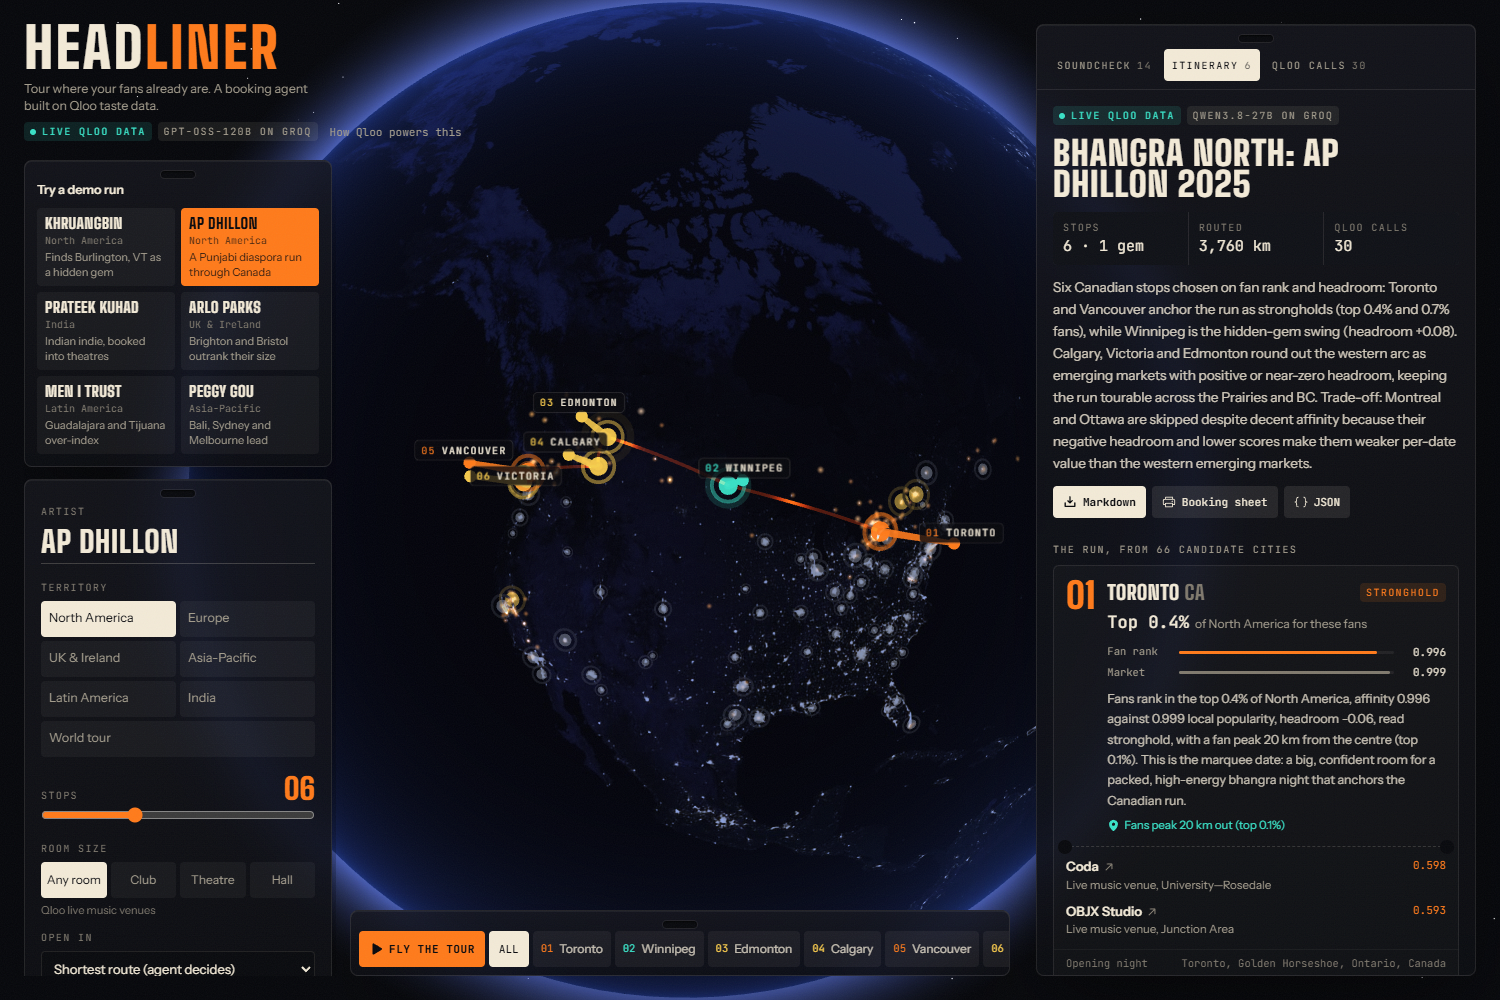
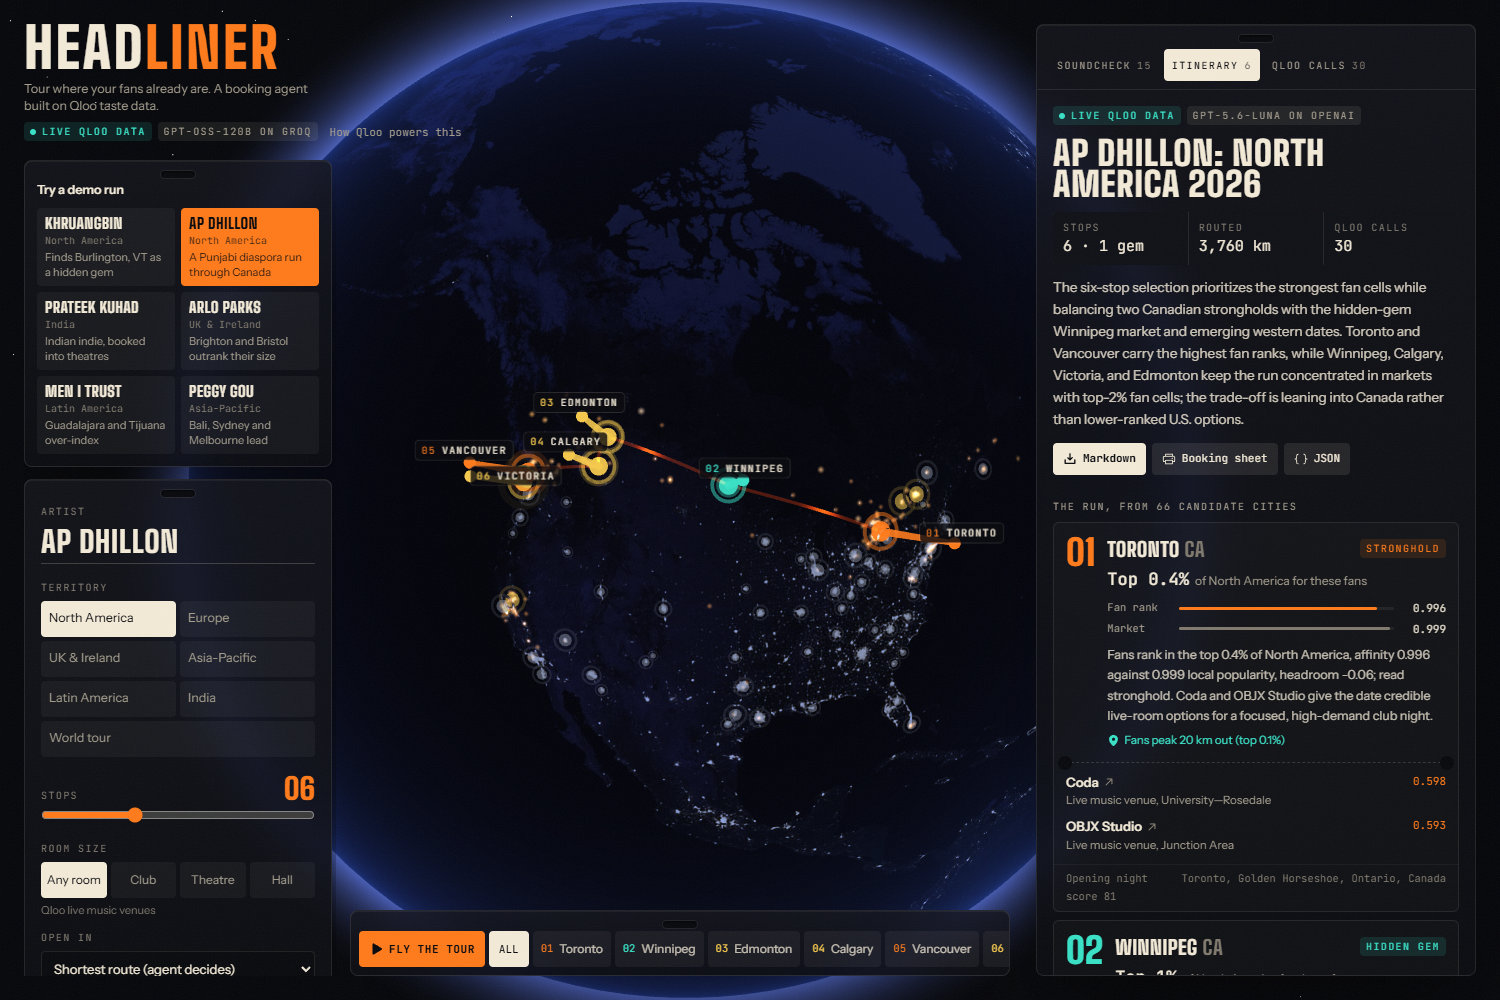
llm: OpenAI gpt-5.6-luna as a metered fallback behind Groq with a daily run budget, call and token caps; current year in headline rule; LLM-planned shots 05 and 06

diff --git a/src/lib/agent/orchestrator.ts b/src/lib/agent/orchestrator.ts
@@ -11,7 +11,8 @@ import { PlanDraftSchema, type PlanDraft, type PlanRequest, type TourPlan } from
 import { deterministicDraft, f3, gatherEvidence, pickCities } from "./deterministic";
 import type { AgentEvent } from "./events";
 import { EvidenceLedger } from "./ledger";
-import { getLlm, modelOptions, type LlmConfig } from "./llm";
+import { claimMeteredRun } from "./budget";
+import { estimateCostUsd, getLlm, modelOptions, type LlmConfig, type LlmRoute } from "./llm";
 import { executeTool, stepId } from "./runner";
 import { TOOL_BY_NAME, type ToolContext } from "./tools";
 
@@ -20,6 +21,9 @@ type ToolSpec = OpenAI.Chat.Completions.ChatCompletionTool;
 
 const MAX_TURNS = 5;
 const MAX_SUBMIT_FAILURES = 3;
+/** Spend guards for paid routes: completions per run and output tokens per completion. */
+const METERED_MAX_CALLS = 4;
+const METERED_MAX_OUTPUT_TOKENS = 2000;
 /** Whole LLM phase must leave room for the deterministic fallback inside the route's maxDuration. */
 const LLM_BUDGET_MS = 80_000;
 /** Spare cities (beyond the requested stop count) that get venue lookups up front. */
@@ -150,7 +154,7 @@ function systemPrompt(req: PlanRequest) {
     "- Each stop reason: two sentences, like a booking agent's note. First the evidence, citing that city's own numbers exactly as listed (e.g. 'Fans rank in the top 0.8% of North America, affinity 0.992 against 0.976 local popularity, headroom +0.14.'). Then what it means for the date (why this room, what kind of night). Use the city's read label as given; never call a city a hidden gem or stronghold unless its read says so. You may mention a metro-peak note when listed. Pick 1-2 venues per stop from that city's list, preferring real rooms over restaurants or pubs.",
     "- Do not make geographic or historical claims that the evidence does not show.",
     "- Bill: 1 co-headliner and 1-2 support acts from SIMILAR ARTISTS. Brands: 2-3 from BRANDS with a concrete pitch. audienceNotes: 2 notes for the poster and merch designer built from the taste tags only; do not mention age or gender (the server adds those facts).",
-    `- headline: a poster-style tour title (max 8 words) that fits the ${region} run; do not claim a wider geography.`,
+    `- headline: a poster-style tour title (max 8 words) that fits the ${region} run; do not claim a wider geography. If it names a year, use ${new Date().getUTCFullYear()} or later.`,
     "- Affinities are aggregate audience signals, not ticket forecasts or facts about individuals. Write like a seasoned booking agent: concrete, short, no hype.",
     "- The server computes the travel order, so list stops in any order and do not narrate a route in the summary. If the user's constraints name a closing city, set closeCityId; the server will end there.",
     "- summary: 2-3 sentences on why these cities (selection logic and trade-offs), consistent with the numbers.",
@@ -229,25 +233,67 @@ class ToolCallRejected extends Error {}
  * - 429: switch to the next model (separate per-model limits), or wait if the wait is short.
  * - 400 tool_use_failed (provider-side schema check of tool args): surfaced as ToolCallRejected for a corrective retry.
  * - 5xx / timeouts: next model.
+ * - every model on the free route unavailable: continue on the paid backup if today's budget has a slot.
  */
-async function complete(llm: LlmConfig, messages: Msg[], deadline: number, forceSubmit = false): Promise<Completion> {
+async function complete(state: RunState, messages: Msg[], deadline: number, forceSubmit = false): Promise<Completion> {
+  try {
+    return await completeOn(state, messages, deadline, forceSubmit);
+  } catch (err) {
+    const backup = state.llm.backup;
+    if (err instanceof ToolCallRejected || state.route.metered || !backup) throw err;
+    const reason = (err instanceof Error ? err.message : String(err)).replace(/org_\w+/g, "org").slice(0, 160);
+    await switchToMeteredRoute(state, backup, `${state.route.provider} unavailable (${reason})`);
+    return completeOn(state, messages, deadline, forceSubmit);
+  }
+}
+
+/** Which route a run is on, and what it has spent on metered routes. */
+interface RunState {
+  llm: LlmConfig;
+  route: LlmRoute;
+  meteredCalls: number;
+  usage: { input: number; cached: number; output: number };
+  emit: ToolContext["emit"];
+}
+
+async function switchToMeteredRoute(state: RunState, route: LlmRoute, why: string) {
+  const slot = await claimMeteredRun();
+  const name = `${route.provider === "openai" ? "OpenAI" : route.provider} ${route.model}`;
+  if (!slot.ok) {
+    state.emit({ type: "step", id: stepId(), kind: "think", title: `Daily ${name} budget used`, status: "error", detail: `${why}; ${slot.used}/${slot.limit} paid runs today` });
+    throw new Error(`${why}; daily ${name} budget used (${slot.used}/${slot.limit})`);
+  }
+  state.route = route;
+  state.emit({ type: "step", id: stepId(), kind: "think", title: `Continuing on ${name}`, status: "done", detail: `${why} · paid run ${slot.used}/${slot.limit} today` });
+}
+
+async function completeOn(state: RunState, messages: Msg[], deadline: number, forceSubmit: boolean): Promise<Completion> {
+  const route = state.route;
   let lastErr: unknown;
   for (let attempt = 0; attempt < 8; attempt++) {
-    const model = await pickModel(llm, deadline);
+    const model = await pickModel(route, deadline);
+    if (route.metered && state.meteredCalls >= METERED_MAX_CALLS) throw new Error(`Paid LLM call cap reached (${METERED_MAX_CALLS} per run)`);
+    if (route.metered) state.meteredCalls++;
     try {
-      const { data: res, response } = await llm.client.chat.completions
+      const { data: res, response } = await route.client.chat.completions
         .create({
         model,
         messages,
         tools: TOOL_SPECS,
         tool_choice: forceSubmit ? { type: "function", function: { name: "submit_tour_plan" } } : "required",
         parallel_tool_calls: !forceSubmit,
-        max_completion_tokens: 3000,
-        temperature: 0.4,
+        max_completion_tokens: route.metered ? METERED_MAX_OUTPUT_TOKENS : 3000,
+        // GPT-5 before 5.6 only accepts the default temperature.
+        ...(/^gpt-5(?!\.[6-9])/.test(model) ? {} : { temperature: 0.4 }),
         ...modelOptions(model),
       } as OpenAI.Chat.Completions.ChatCompletionCreateParamsNonStreaming)
         .withResponse();
       paceFromHeaders(model, response.headers);
+      if (route.metered && res.usage) {
+        state.usage.input += res.usage.prompt_tokens;
+        state.usage.cached += res.usage.prompt_tokens_details?.cached_tokens ?? 0;
+        state.usage.output += res.usage.completion_tokens;
+      }
       const message = res.choices[0]?.message;
       if (!message) throw new Error("LLM returned no message");
       return { message, model, usage: res.usage ?? undefined };
@@ -256,7 +302,10 @@ async function complete(llm: LlmConfig, messages: Msg[], deadline: number, force
       if (err instanceof OpenAI.APIError) {
         const code = (err.error as { code?: string } | undefined)?.code ?? err.code;
         if (err.status === 400 && code === "tool_use_failed") throw new ToolCallRejected(err.message.slice(0, 400));
+        // Out of credit is not a wait-and-retry 429.
+        if (code === "insufficient_quota") throw err;
         if (err.status === 429) {
+          if (route.metered) state.meteredCalls--;
           const wait = retryAfterMs(err);
           console.warn(`[llm] 429 from ${model}, cooling ${Math.round(wait / 1000)}s: ${err.message.replace(/org_\w+/g, "org").slice(0, 220)}`);
           coolDown(model, wait);
@@ -298,7 +347,7 @@ function paceFromHeaders(model: string, h: Headers) {
 }
 
 /** Best available model: the primary unless it is cooling down; waits for the soonest if all are. */
-async function pickModel(llm: LlmConfig, deadline: number): Promise<string> {
+async function pickModel(llm: LlmRoute, deadline: number): Promise<string> {
   const now = Date.now();
   const primaryWait = (cooldowns.get(llm.models[0]) ?? 0) - now;
   if (primaryWait > 0 && primaryWait < PRIMARY_WAIT_MS && now + primaryWait < deadline) {
@@ -425,7 +474,21 @@ function draftProblems(d: PlanDraft, ctx: ToolContext, aliases: AliasBook): stri
 }
 
 async function runLlm(llm: LlmConfig, ctx: ToolContext): Promise<TourPlan> {
+  const state: RunState = { llm, route: llm, meteredCalls: 0, usage: { input: 0, cached: 0, output: 0 }, emit: ctx.emit };
+  try {
+    return await runTurns(state, ctx);
+  } finally {
+    const { input, cached, output } = state.usage;
+    if (input || output) {
+      const usd = estimateCostUsd(state.route.model, input, cached, output);
+      console.log(`[llm] metered ${state.route.model}: ${state.meteredCalls} calls, ${input} in (${cached} cached) + ${output} out${usd === null ? "" : `, ~$${usd.toFixed(4)}`} · ${ctx.request.artist}`);
+    }
+  }
+}
+
+async function runTurns(state: RunState, ctx: ToolContext): Promise<TourPlan> {
   const deadline = Date.now() + LLM_BUDGET_MS;
+  if (state.route.metered) await switchToMeteredRoute(state, state.route, "Paid LLM is the only planner configured");
   const shortlist = await research(ctx);
   const aliases = new AliasBook();
   const messages: Msg[] = [
@@ -438,7 +501,7 @@ async function runLlm(llm: LlmConfig, ctx: ToolContext): Promise<TourPlan> {
   let forced = false;
   for (let turn = 0; turn < MAX_TURNS; turn++) {
     // The last two turns may only submit: lookups are closed so the run always ends in a plan.
-    const force = turn >= MAX_TURNS - 2;
+    const force = turn >= MAX_TURNS - 2 || (state.route.metered && state.meteredCalls >= METERED_MAX_CALLS - 2);
     if (force && !forced) {
       forced = true;
       messages.push({ role: "user", content: "Lookups are closed. Call submit_tour_plan now with the evidence you have, following every rule." });
@@ -449,7 +512,7 @@ async function runLlm(llm: LlmConfig, ctx: ToolContext): Promise<TourPlan> {
     const t0 = performance.now();
     let res: Completion;
     try {
-      res = await complete(llm, messages, deadline, force);
+      res = await complete(state, messages, deadline, force);
     } catch (err) {
       if (!(err instanceof ToolCallRejected)) {
         ctx.emit({ type: "step", id: thinkId, kind: "think", title, status: "error", detail: (err as Error).message.slice(0, 200) });
@@ -513,7 +576,7 @@ async function runLlm(llm: LlmConfig, ctx: ToolContext): Promise<TourPlan> {
       continue;
     }
     if (!parsed?.success) throw new Error("unreachable");
-    return finish(parsed.data, ctx, aliases, `${llm.provider}:${res.model}`, vid);
+    return finish(parsed.data, ctx, aliases, `${state.route.provider}:${res.model}`, vid);
   }
   throw new Error("Agent ran out of turns before submitting a valid plan");
 }

diff --git a/src/lib/agent/llm.ts b/src/lib/agent/llm.ts
@@ -1,18 +1,26 @@
 import "server-only";
 import OpenAI from "openai";
 
-export interface LlmConfig {
+export interface LlmRoute {
   provider: "groq" | "openai" | "custom";
   /** Primary model first, then fallbacks tried on rate limits / provider errors. */
   models: string[];
   model: string;
   client: OpenAI;
+  /** Paid per token: every run on this route needs a slot from the daily budget and runs under tighter caps. */
+  metered: boolean;
+}
+
+export interface LlmConfig extends LlmRoute {
+  /** Paid route used only when the primary is rate-limited or unavailable. */
+  backup?: LlmRoute;
 }
 
 const DEFAULTS = {
   // Groq rate limits are per model, so falling back to a sibling model also sidesteps a 429.
   groq: { baseURL: "https://api.groq.com/openai/v1", models: ["openai/gpt-oss-120b", "openai/gpt-oss-20b", "qwen/qwen3.8-27b"] },
-  openai: { baseURL: undefined as string | undefined, models: ["gpt-4.1-mini"] },
+  // Cheapest current OpenAI model that handles the planner's tool calls well ($0.10 in / $0.60 out per 1M).
+  openai: { baseURL: undefined as string | undefined, models: ["gpt-5.6-luna"] },
 };
 
 const list = (s: string | undefined) =>
@@ -21,14 +29,24 @@ const list = (s: string | undefined) =>
     .map((x) => x.trim())
     .filter(Boolean);
 
+function openaiRoute(env: NodeJS.ProcessEnv, model?: string): LlmRoute | null {
+  const apiKey = env.OPENAI_API_KEY?.trim();
+  if (!apiKey) return null;
+  const primary = model || env.OPENAI_MODEL?.trim() || DEFAULTS.openai.models[0];
+  return { provider: "openai", model: primary, models: [primary], client: new OpenAI({ apiKey, maxRetries: 0, timeout: 40_000 }), metered: true };
+}
+
 /**
  * OpenAI-compatible client from env. Precedence:
  *   LLM_PROVIDER (groq|openai|custom) + LLM_API_KEY / LLM_BASE_URL / LLM_MODEL / LLM_FALLBACK_MODELS, else
  *   GROQ_API_KEY -> Groq, else OPENAI_API_KEY -> OpenAI, else null (deterministic agent).
+ * With Groq primary and OPENAI_API_KEY set, OpenAI (OPENAI_MODEL, default gpt-5.6-luna) is a metered backup;
+ * OPENAI_FALLBACK=0 turns the backup off.
  */
 export function getLlm(env: NodeJS.ProcessEnv = process.env): LlmConfig | null {
   const explicit = env.LLM_PROVIDER?.trim().toLowerCase();
-  const provider =
+  if (explicit === "none") return null;
+  let provider: LlmRoute["provider"] | null =
     explicit === "groq" || explicit === "openai" || explicit === "custom"
       ? explicit
       : env.GROQ_API_KEY
@@ -36,7 +54,14 @@ export function getLlm(env: NodeJS.ProcessEnv = process.env): LlmConfig | null {
         : env.OPENAI_API_KEY
           ? "openai"
           : null;
-  if (!provider || explicit === "none") return null;
+  // Groq selected but its key is gone: Groq is disabled and OpenAI (metered) is the only LLM.
+  if (provider === "groq" && !env.GROQ_API_KEY?.trim() && !env.LLM_API_KEY?.trim()) provider = env.OPENAI_API_KEY?.trim() ? "openai" : null;
+  if (!provider) return null;
+
+  if (provider === "openai" && !env.LLM_API_KEY?.trim() && !env.LLM_BASE_URL?.trim()) {
+    const model = env.LLM_MODEL?.trim();
+    return openaiRoute(env, model && !model.includes("/") ? model : undefined);
+  }
 
   const apiKey =
     env.LLM_API_KEY?.trim() || (provider === "groq" ? env.GROQ_API_KEY?.trim() : provider === "openai" ? env.OPENAI_API_KEY?.trim() : undefined);
@@ -48,12 +73,37 @@ export function getLlm(env: NodeJS.ProcessEnv = process.env): LlmConfig | null {
   if (!primary) return null;
   const fallbacks = env.LLM_FALLBACK_MODELS !== undefined ? list(env.LLM_FALLBACK_MODELS) : defaults.models;
   const models = [primary, ...fallbacks.filter((m) => m !== primary)];
-  return { provider, model: primary, models, client: new OpenAI({ apiKey, baseURL, maxRetries: 0, timeout: 40_000 }) };
+  const backup = provider === "groq" && env.OPENAI_FALLBACK !== "0" ? (openaiRoute(env) ?? undefined) : undefined;
+  return {
+    provider,
+    model: primary,
+    models,
+    client: new OpenAI({ apiKey, baseURL, maxRetries: 0, timeout: 40_000 }),
+    metered: provider === "openai",
+    ...(backup ? { backup } : {}),
+  };
 }
 
 /** Provider-specific request knobs. Reasoning models spend TPM on hidden reasoning, so keep it low. */
 export function modelOptions(model: string): Record<string, unknown> {
   if (model.includes("gpt-oss")) return { reasoning_effort: "low" };
   if (model.startsWith("qwen/")) return { reasoning_effort: "none" };
+  // Chat Completions only allows function tools on GPT-5.6+ with reasoning off.
+  if (/^gpt-(5\.[6-9]|[6-9])/.test(model)) return { reasoning_effort: "none" };
+  if (model.startsWith("gpt-5")) return { reasoning_effort: "minimal" };
   return {};
+}
+
+/** USD per 1M tokens (input, cached input, output) for cost logging on metered routes. */
+const PRICES: Record<string, [number, number, number]> = {
+  "gpt-5.6-luna": [0.1, 0.01, 0.6],
+  "gpt-5-nano": [0.05, 0.005, 0.4],
+  "gpt-5-mini": [0.25, 0.025, 2],
+  "gpt-4.1-nano": [0.1, 0.025, 0.4],
+  "gpt-4.1-mini": [0.4, 0.1, 1.6],
+};
+
+export function estimateCostUsd(model: string, input: number, cached: number, output: number): number | null {
+  const p = PRICES[model];
+  return p ? ((input - cached) * p[0] + cached * p[1] + output * p[2]) / 1e6 : null;
 }

diff --git a/src/lib/agent/budget.ts b/src/lib/agent/budget.ts
@@ -1,0 +1,59 @@
+import "server-only";
+import { defaultStore } from "@/lib/qloo/store";
+
+/** Paid-LLM runs allowed per UTC day across every visitor (OPENAI_DAILY_RUNS overrides). */
+export const METERED_RUNS_PER_DAY = Number(process.env.OPENAI_DAILY_RUNS ?? 40);
+
+const day = () => new Date().toISOString().slice(0, 10);
+const memory = new Map<string, number>();
+const TTL_S = 2 * 24 * 3600;
+
+/** Upstash Redis REST (atomic INCR) when configured; the counter that survives across instances. */
+async function upstashIncr(key: string): Promise<number | null> {
+  const url = (process.env.UPSTASH_REDIS_REST_URL ?? process.env.KV_REST_API_URL)?.trim();
+  const token = (process.env.UPSTASH_REDIS_REST_TOKEN ?? process.env.KV_REST_API_TOKEN)?.trim();
+  if (!url || !token) return null;
+  try {
+    const res = await fetch(`${url.replace(/\/$/, "")}/pipeline`, {
+      method: "POST",
+      headers: { authorization: `Bearer ${token}`, "content-type": "application/json" },
+      body: JSON.stringify([
+        ["INCR", key],
+        ["EXPIRE", key, String(TTL_S)],
+      ]),
+      cache: "no-store",
+    });
+    if (!res.ok) return null;
+    const [incr] = (await res.json()) as { result?: number }[];
+    return typeof incr?.result === "number" ? incr.result : null;
+  } catch {
+    return null;
+  }
+}
+
+export interface BudgetSlot {
+  ok: boolean;
+  used: number;
+  limit: number;
+  store: "upstash" | "runtime-cache" | "disk" | "memory";
+}
+
+/**
+ * Claims one paid-LLM run for today. Upstash is exact; otherwise the Vercel Runtime Cache (shared, not atomic)
+ * and this instance's own count are combined, so concurrent instances may overshoot by a few runs at most.
+ */
+export async function claimMeteredRun(limit = METERED_RUNS_PER_DAY): Promise<BudgetSlot> {
+  const key = `llm-budget:metered:${day()}`;
+  if (limit <= 0) return { ok: false, used: 0, limit, store: "memory" };
+
+  const exact = await upstashIncr(key);
+  if (exact !== null) return { ok: exact <= limit, used: Math.min(exact, limit), limit, store: "upstash" };
+
+  const store = defaultStore();
+  const shared = Number((await store?.get(key)) ?? 0) || 0;
+  const used = Math.max(shared, memory.get(key) ?? 0);
+  if (used >= limit) return { ok: false, used, limit, store: store?.kind ?? "memory" };
+  memory.set(key, used + 1);
+  await store?.set(key, used + 1, TTL_S);
+  return { ok: true, used: used + 1, limit, store: store?.kind ?? "memory" };
+}

diff --git a/test/llm-config.test.ts b/test/llm-config.test.ts
@@ -33,6 +33,21 @@ describe("getLlm", () => {
     expect(c.client.baseURL).toBe("https://llm.example/v1");
   });
 
+  it("adds OpenAI as a metered backup behind Groq", () => {
+    const c = getLlm(env({ GROQ_API_KEY: "g", OPENAI_API_KEY: "o" }))!;
+    expect(c.metered).toBe(false);
+    expect(c.backup).toMatchObject({ provider: "openai", model: "gpt-5.6-luna", metered: true });
+    expect(getLlm(env({ GROQ_API_KEY: "g", OPENAI_API_KEY: "o", OPENAI_FALLBACK: "0" }))!.backup).toBeUndefined();
+    expect(getLlm(env({ GROQ_API_KEY: "g", OPENAI_API_KEY: "o", OPENAI_MODEL: "gpt-5-nano" }))!.backup!.model).toBe("gpt-5-nano");
+  });
+
+  it("falls back to metered OpenAI when Groq is selected but its key is gone", () => {
+    const c = getLlm(env({ LLM_PROVIDER: "groq", LLM_MODEL: "openai/gpt-oss-120b", OPENAI_API_KEY: "o" }))!;
+    expect(c).toMatchObject({ provider: "openai", model: "gpt-5.6-luna", metered: true });
+    expect(c.backup).toBeUndefined();
+    expect(getLlm(env({ LLM_PROVIDER: "groq" }))).toBeNull();
+  });
+
   it("can be disabled explicitly", () => {
     expect(getLlm(env({ LLM_PROVIDER: "none", GROQ_API_KEY: "g" }))).toBeNull();
   });

diff --git a/test/budget.test.ts b/test/budget.test.ts
@@ -1,0 +1,20 @@
+import { beforeAll, describe, expect, it } from "vitest";
+
+beforeAll(() => {
+  process.env.QLOO_DURABLE_CACHE = "0";
+});
+
+describe("claimMeteredRun", () => {
+  it("grants slots up to the daily limit, then refuses", async () => {
+    const { claimMeteredRun } = await import("@/lib/agent/budget");
+    const results = [];
+    for (let i = 0; i < 4; i++) results.push(await claimMeteredRun(3));
+    expect(results.map((r) => r.ok)).toEqual([true, true, true, false]);
+    expect(results[3]).toMatchObject({ used: 3, limit: 3, store: "memory" });
+  });
+
+  it("refuses everything when the limit is zero", async () => {
+    const { claimMeteredRun } = await import("@/lib/agent/budget");
+    expect((await claimMeteredRun(0)).ok).toBe(false);
+  });
+});
